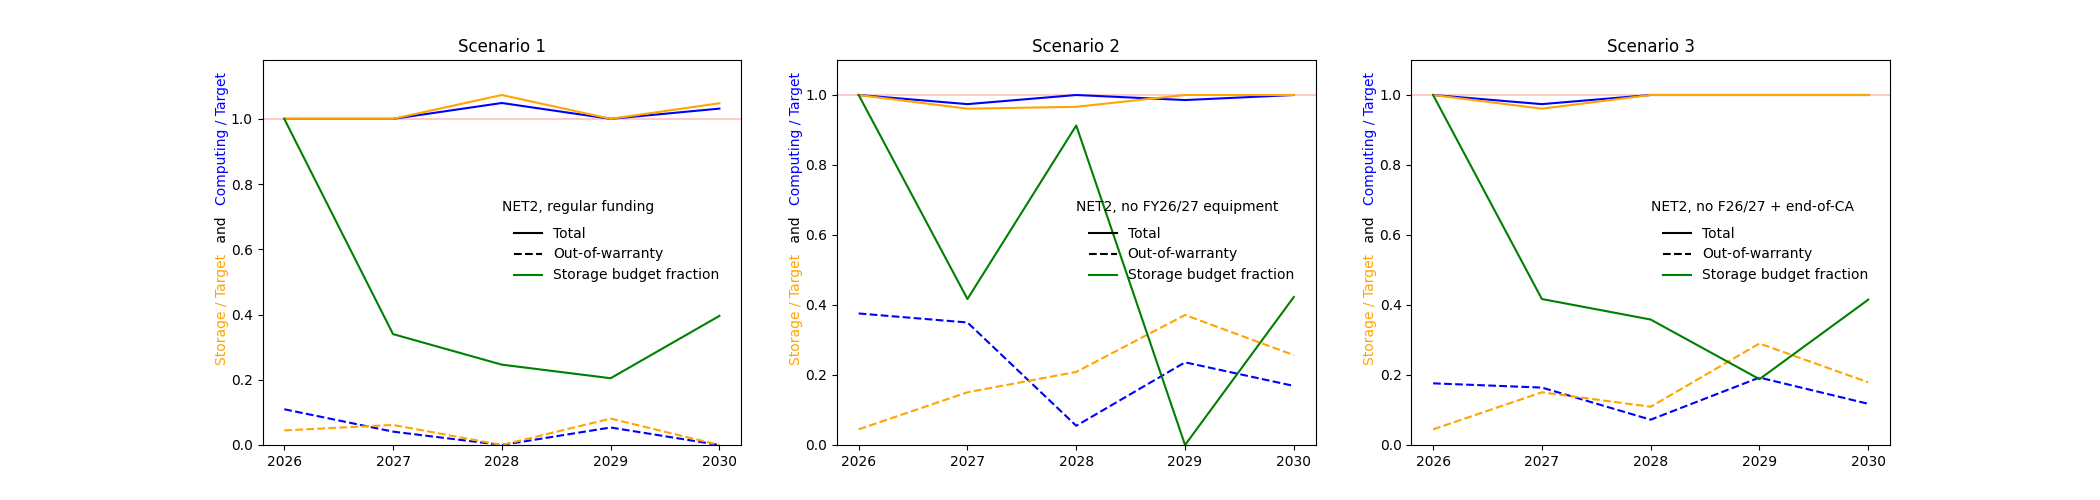
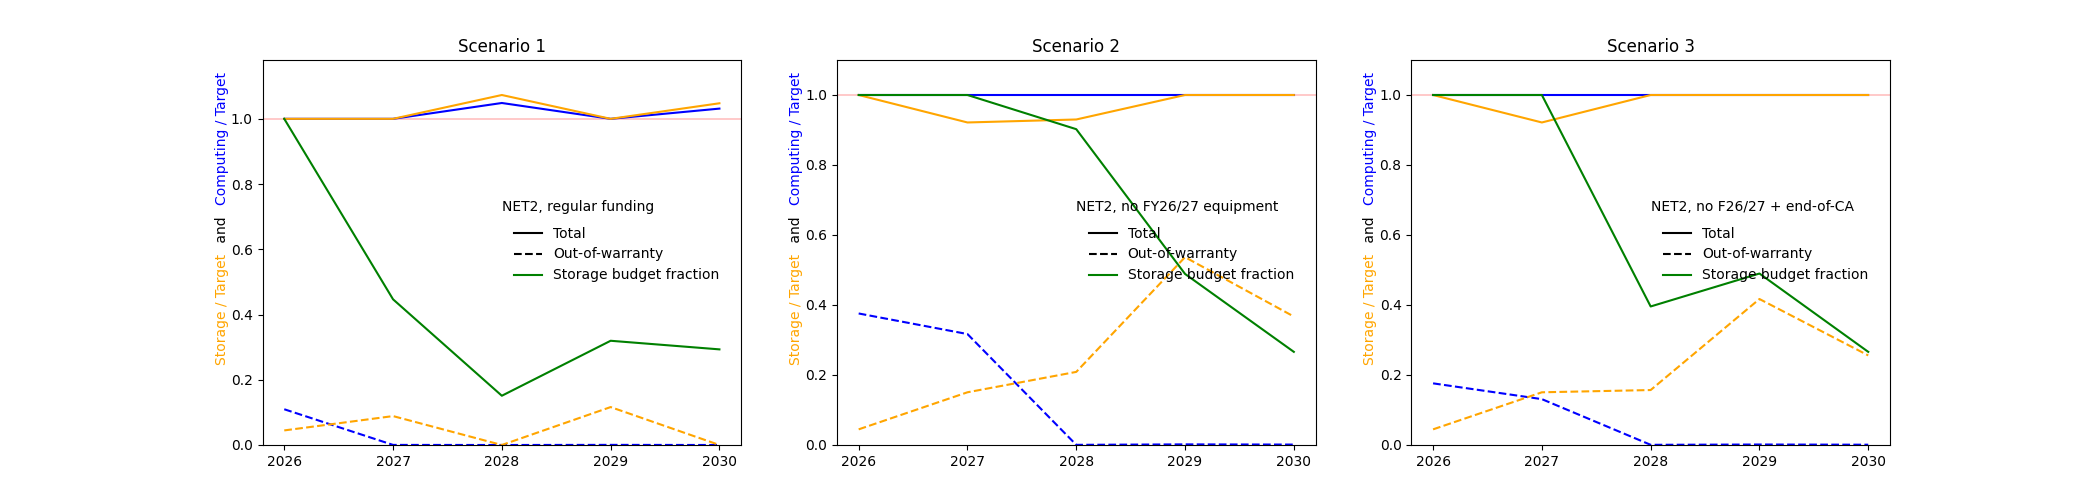
update

diff --git a/utils.py b/utils.py
@@ -45,6 +45,8 @@ def readSite(site_sheet):
     row = row + 1
     if 'initial' in key.lower():
       site[resource.lower()]['initial'] = [float(val) for val in site_sheet.row_values(row)[2:]]
+    if 'penalty' in key.lower():
+      site[resource.lower()]['penalty'] = [float(val) for val in site_sheet.row_values(row)[2:]]
     if 'retirement' in key.lower():
       site[resource.lower()]['retirement'] = [float(val) for val in site_sheet.row_values(row)[2:]]
     if 'years' in key.lower():
@@ -87,6 +89,9 @@ def cost_function(fraction, inputs, site, scenario, debug, sitename):
   storage = site['storage']['initial'][0]
   computing = site['computing']['initial'][0]
   size = site['resources']['size'][0]
+
+  storage_penalty = site['storage']['penalty'][0]
+  computing_penalty = site['computing']['penalty'][0]
 
   additional_storage = 0
   additional_computing = 0
@@ -131,8 +136,8 @@ def cost_function(fraction, inputs, site, scenario, debug, sitename):
     
     loss += ((storage_target - storage)/storage_target)**2
     loss += ((computing_target - computing)/computing_target)**2
-    loss += 0.5*(storage_oldjunk/storage_target)**2
-    loss += 0.5*(computing_oldjunk/computing_target)**2
+    loss += storage_penalty*(storage_oldjunk/storage_target)**2
+    loss += computing_penalty*(computing_oldjunk/computing_target)**2
 
     debug.append((storage_fraction*budget,storage_target, storage, storage_oldjunk, \
     (1-storage_fraction)*budget, computing_target, computing, computing_oldjunk))
